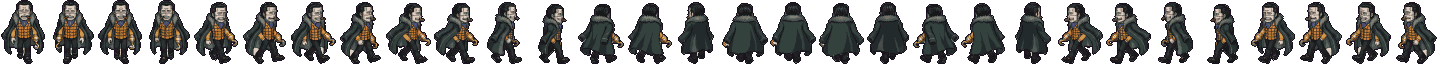
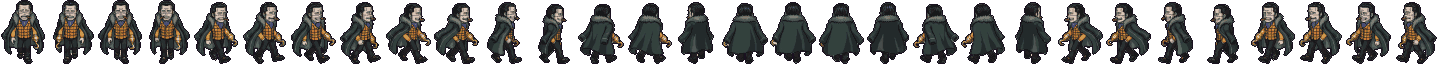
Kuro y Wapol en 8 direcciones; sin puntos blancos (bolsas de fondo encerradas y motas sueltas)

Changed region(s): [[0.9062, 0.75, 0.9375, 0.8125], [0.2188, 0.7812, 0.25, 0.8125], [0.1562, 0.75, 0.1875, 0.7812]]

diff --git a/js/data/sprites-built.js b/js/data/sprites-built.js
@@ -6,7 +6,6 @@ G.CUSTOM_SPRITES = Object.assign(G.CUSTOM_SPRITES || {}, {
   marine: {"file":"assets/chars/marine.png","fw":62,"fh":48,"scale":1,"anims":{"idle":[1],"walk":[7],"attack":[22,23]},"fps":{"idle":1,"walk":8,"attack":6},"body":[17,2,28,46],"dirs":{"down":{"idle":[1],"walk":[0,1,2,1]},"down-right":{"idle":[5],"walk":[3,4,5,6]},"right":{"idle":[7],"walk":[7]},"up-right":{"idle":[9],"walk":[8,9,10,9]},"up":{"idle":[12],"walk":[11,12,13,12]},"up-left":{"idle":[15],"walk":[14,15,16,15]},"left":{"idle":[17],"walk":[17]},"down-left":{"idle":[20],"walk":[18,19,20,21]}}},
   sanji: {"file":"assets/chars/sanji.png","fw":30,"fh":45,"scale":1,"anims":{"idle":[2],"walk":[7,8,9,8]},"fps":{"idle":1,"walk":8},"body":[6,1,20,44],"dirs":{"down":{"idle":[2],"walk":[0,1,2,3]},"down-right":{"idle":[5],"walk":[4,5,6,5]},"right":{"idle":[8],"walk":[7,8,9,8]},"up-right":{"idle":[11],"walk":[10,11,12,11]},"up":{"idle":[14],"walk":[13,14,15,14]},"up-left":{"idle":[17],"walk":[16,17,18,17]},"left":{"idle":[20],"walk":[19,20,21,20]},"down-left":{"idle":[23],"walk":[22,23,24,23]}}},
   imu: {"file":"assets/chars/imu.png","fw":54,"fh":62,"scale":1,"anims":{"idle":[0,1,2],"walk":[3],"attack":[4],"hurt":[5]},"fps":{"idle":3,"walk":1,"attack":5,"hurt":1},"body":[1,0,49,62]},
-  morgan: {"file":"assets/chars/morgan.png","fw":50,"fh":62,"scale":1,"anims":{"idle":[3],"walk":[10,11,12,13],"attack":[33,34]},"fps":{"idle":1,"walk":8,"attack":5},"body":[6,0,42,62],"dirs":{"down":{"idle":[3],"walk":[0,1,2,3,4,5]},"down-right":{"idle":[8],"walk":[6,7,8,9]},"right":{"idle":[12],"walk":[10,11,12,13]},"up-right":{"idle":[15],"walk":[14,15,16,15]},"up":{"idle":[19],"walk":[17,18,19,20,21]},"up-left":{"idle":[23],"walk":[22,23,24,23]},"left":{"idle":[27],"walk":[25,26,27,28]},"down-left":{"idle":[31],"walk":[29,30,31,32]}}},
   buggy: {"file":"assets/chars/buggy.png","fw":58,"fh":61,"scale":1,"anims":{"idle":[2],"walk":[8,9],"attack":[26]},"fps":{"idle":1,"walk":7,"attack":5},"body":[7,1,44,60],"dirs":{"down":{"idle":[2],"walk":[0,1,2,3]},"down-right":{"idle":[6],"walk":[4,5,6,7]},"right":{"idle":[9],"walk":[8,9]},"up-right":{"idle":[11],"walk":[10,11,12,11]},"up":{"idle":[15],"walk":[13,14,15,16]},"up-left":{"idle":[18],"walk":[17,18,19,18]},"left":{"idle":[21],"walk":[20,21]},"down-left":{"idle":[24],"walk":[22,23,24,25]}}},
   krieg: {"file":"assets/chars/krieg.png","fw":48,"fh":64,"scale":1,"anims":{"idle":[2],"walk":[8,9,10,9]},"fps":{"idle":1,"walk":7},"body":[5,1,40,63],"dirs":{"down":{"idle":[2],"walk":[0,1,2,3]},"down-right":{"idle":[6],"walk":[4,5,6,7]},"right":{"idle":[9],"walk":[8,9,10,9]},"up-right":{"idle":[12],"walk":[11,12]},"up":{"idle":[15],"walk":[13,14,15,16]},"up-left":{"idle":[18],"walk":[17,18]},"left":{"idle":[20],"walk":[19,20,21,20]},"down-left":{"idle":[24],"walk":[22,23,24,25]}}},
   arlong: {"file":"assets/chars/arlong.png","fw":50,"fh":65,"scale":1,"anims":{"idle":[2],"walk":[7,8,9,10],"attack":[28]},"fps":{"idle":1,"walk":7,"attack":5},"body":[3,1,40,64],"dirs":{"down":{"idle":[2],"walk":[0,1,2,3]},"down-right":{"idle":[5],"walk":[4,5,6,5]},"right":{"idle":[9],"walk":[7,8,9,10]},"up-right":{"idle":[12],"walk":[11,12,13,12]},"up":{"idle":[16],"walk":[14,15,16,17]},"up-left":{"idle":[19],"walk":[18,19,20,19]},"left":{"idle":[23],"walk":[21,22,23,24]},"down-left":{"idle":[26],"walk":[25,26,27,26]}}},
@@ -14,5 +13,8 @@ G.CUSTOM_SPRITES = Object.assign(G.CUSTOM_SPRITES || {}, {
   crocodile: {"file":"assets/chars/crocodile.png","fw":48,"fh":64,"scale":1,"anims":{"idle":[2],"walk":[8,9,10,11]},"fps":{"idle":1,"walk":7},"body":[2,0,44,64],"dirs":{"down":{"idle":[2],"walk":[0,1,2,3]},"down-right":{"idle":[6],"walk":[4,5,6,7]},"right":{"idle":[10],"walk":[8,9,10,11]},"up-right":{"idle":[13],"walk":[12,13,14,13]},"up":{"idle":[17],"walk":[15,16,17,18]},"up-left":{"idle":[20],"walk":[19,20,21,20]},"left":{"idle":[24],"walk":[22,23,24,25]},"down-left":{"idle":[28],"walk":[26,27,28,29]}}},
   enel: {"file":"assets/chars/enel.png","fw":46,"fh":66,"scale":1,"anims":{"idle":[1],"walk":[4]},"fps":{"idle":1,"walk":7},"body":[5,1,38,65],"dirs":{"down":{"idle":[1],"walk":[0,1]},"down-right":{"idle":[3],"walk":[2,3]},"right":{"idle":[4],"walk":[4]},"up-right":{"idle":[5],"walk":[5]},"up":{"idle":[8],"walk":[6,7,8,9]},"up-left":{"idle":[10],"walk":[10]},"left":{"idle":[11],"walk":[11]},"down-left":{"idle":[13],"walk":[12,13]}}},
   lucci: {"file":"assets/chars/lucci.png","fw":32,"fh":64,"scale":1,"anims":{"idle":[1],"walk":[4,5]},"fps":{"idle":1,"walk":7},"body":[3,0,28,64],"dirs":{"down":{"idle":[1],"walk":[0,1]},"down-right":{"idle":[3],"walk":[2,3]},"right":{"idle":[5],"walk":[4,5]},"up-right":{"idle":[7],"walk":[6,7]},"up":{"idle":[10],"walk":[8,9,10,11]},"up-left":{"idle":[13],"walk":[12,13]},"left":{"idle":[15],"walk":[14,15]},"down-left":{"idle":[17],"walk":[16,17]}}},
-  moria: {"file":"assets/chars/moria.png","fw":56,"fh":78,"scale":1,"anims":{"idle":[2],"walk":[6,7,8,7]},"fps":{"idle":1,"walk":7},"body":[3,4,51,74],"dirs":{"down":{"idle":[2],"walk":[0,1,2,3]},"down-right":{"idle":[5],"walk":[4,5]},"right":{"idle":[7],"walk":[6,7,8,7]},"up-right":{"idle":[10],"walk":[9,10]},"up":{"idle":[12],"walk":[11,12]},"up-left":{"idle":[14],"walk":[13,14]},"left":{"idle":[16],"walk":[15,16,17,16]},"down-left":{"idle":[19],"walk":[18,19]}}}
+  moria: {"file":"assets/chars/moria.png","fw":56,"fh":78,"scale":1,"anims":{"idle":[2],"walk":[6,7,8,7]},"fps":{"idle":1,"walk":7},"body":[3,4,51,74],"dirs":{"down":{"idle":[2],"walk":[0,1,2,3]},"down-right":{"idle":[5],"walk":[4,5]},"right":{"idle":[7],"walk":[6,7,8,7]},"up-right":{"idle":[10],"walk":[9,10]},"up":{"idle":[12],"walk":[11,12]},"up-left":{"idle":[14],"walk":[13,14]},"left":{"idle":[16],"walk":[15,16,17,16]},"down-left":{"idle":[19],"walk":[18,19]}}},
+  kuro: {"file":"assets/chars/kuro.png","fw":56,"fh":64,"scale":1,"anims":{"idle":[1],"walk":[4,5,6,5]},"fps":{"idle":1,"walk":7},"body":[7,1,43,63],"dirs":{"down":{"idle":[1],"walk":[0,1]},"down-right":{"idle":[3],"walk":[2,3]},"right":{"idle":[5],"walk":[4,5,6,5]},"up-right":{"idle":[8],"walk":[7,8,9,8]},"up":{"idle":[11],"walk":[10,11,12,11]},"up-left":{"idle":[14],"walk":[13,14,15,14]},"left":{"idle":[17],"walk":[16,17,18,17]},"down-left":{"idle":[20],"walk":[19,20]}}},
+  wapol: {"file":"assets/chars/wapol.png","fw":58,"fh":64,"scale":1,"anims":{"idle":[1],"walk":[6,7,8,9]},"fps":{"idle":1,"walk":7},"body":[3,1,52,63],"dirs":{"down":{"idle":[1],"walk":[0,1]},"down-right":{"idle":[4],"walk":[2,3,4,5]},"right":{"idle":[8],"walk":[6,7,8,9]},"up-right":{"idle":[11],"walk":[10,11,12,11]},"up":{"idle":[14],"walk":[13,14,15,14]},"up-left":{"idle":[17],"walk":[16,17,18,17]},"left":{"idle":[21],"walk":[19,20,21,22]},"down-left":{"idle":[25],"walk":[23,24,25,26]}}},
+  morgan: {"file":"assets/chars/morgan.png","fw":50,"fh":62,"scale":1,"anims":{"idle":[3],"walk":[10,11,12,13],"attack":[33,34]},"fps":{"idle":1,"walk":8,"attack":5},"body":[6,0,42,62],"dirs":{"down":{"idle":[3],"walk":[0,1,2,3,4,5]},"down-right":{"idle":[8],"walk":[6,7,8,9]},"right":{"idle":[12],"walk":[10,11,12,13]},"up-right":{"idle":[15],"walk":[14,15,16,15]},"up":{"idle":[19],"walk":[17,18,19,20,21]},"up-left":{"idle":[23],"walk":[22,23,24,23]},"left":{"idle":[27],"walk":[25,26,27,28]},"down-left":{"idle":[31],"walk":[29,30,31,32]}}}
 });

diff --git a/tools/sprites.config.js b/tools/sprites.config.js
@@ -115,7 +115,7 @@ module.exports = {
     // Buggy: andar en 8 direcciones (Buggy8D.png, convertida del .jfif). Las direcciones que faltan, en espejo.
     buggy: {
       sheet: REF + 'buggy/Buggy8D.png',
-      bgFlat: { color: '#ffffff', thr: 30, r: 2, fringe: 1 },
+      bgFlat: { color: '#ffffff', thr: 30, r: 2, fringe: 1, pockets: 'auto' },
       height: 60, colors: 24,
       fps: { idle: 1, walk: 7, attack: 5 },
       dirs8: {
@@ -152,7 +152,7 @@ module.exports = {
     // Arlong: andar en 8 direcciones (Arlong8D.png, convertida del .jfif). Las direcciones que faltan, en espejo.
     arlong: {
       sheet: REF + 'arlong/Arlong8D.png',
-      bgFlat: { color: '#ffffff', thr: 30, r: 2, fringe: 1 },
+      bgFlat: { color: '#ffffff', thr: 30, r: 2, fringe: 1, pockets: 'auto' },
       height: 64, colors: 24,
       fps: { idle: 1, walk: 7, attack: 5 },
       dirs8: {
@@ -171,7 +171,7 @@ module.exports = {
     // Mr. 3: andar en 8 direcciones (Mr38D.png, convertida del .jfif). Las direcciones que faltan, en espejo.
     mr3: {
       sheet: REF + 'mr3/Mr38D.png',
-      bgFlat: { color: '#ffffff', thr: 30, r: 2, fringe: 1 },
+      bgFlat: { color: '#ffffff', thr: 30, r: 2, fringe: 1, pockets: 'auto' },
       height: 62, colors: 24,
       fps: { idle: 1, walk: 7 },
       dirs8: {
@@ -189,7 +189,7 @@ module.exports = {
     // Crocodile: andar en 8 direcciones (Crocodile8D.png, convertida del .jfif). Las direcciones que faltan, en espejo.
     crocodile: {
       sheet: REF + 'crocodile/Crocodile8D.png',
-      bgFlat: { color: '#ffffff', thr: 30, r: 2, fringe: 1 },
+      bgFlat: { color: '#ffffff', thr: 30, r: 2, fringe: 1, pockets: 'auto' },
       height: 64, colors: 24,
       fps: { idle: 1, walk: 7 },
       dirs8: {
@@ -207,7 +207,7 @@ module.exports = {
     // Enel: andar en 8 direcciones (Enel8D.png, convertida del .jfif). Las direcciones que faltan, en espejo.
     enel: {
       sheet: REF + 'enel/Enel8D.png',
-      bgFlat: { color: '#ffffff', thr: 30, r: 2, fringe: 1 },
+      bgFlat: { color: '#ffffff', thr: 30, r: 2, fringe: 1, pockets: 'auto' },
       height: 64, colors: 24,
       fps: { idle: 1, walk: 7 },
       dirs8: {
@@ -243,7 +243,7 @@ module.exports = {
     // Gecko Moria: andar en 8 direcciones (Moria8D.png, convertida del .jfif). Las direcciones que faltan, en espejo.
     moria: {
       sheet: REF + 'moria/Moria8D.png',
-      bgFlat: { color: '#ffffff', thr: 30, r: 2, fringe: 1 },
+      bgFlat: { color: '#ffffff', thr: 30, r: 2, fringe: 1, pockets: 'auto' },
       height: 78, colors: 24,
       fps: { idle: 1, walk: 7 },
       dirs8: {
@@ -255,6 +255,42 @@ module.exports = {
         'up-left': [[1503, 5, 292, 430], [1545, 452, 227, 433]],
         'left': { mirror: 'right' },
         'down-left': [[309, 0, 285, 440], [321, 451, 261, 434]]
+      }
+    },
+
+    // Kuro: andar en 8 direcciones (Kuro8D.png, convertida del .jfif; paneles y etiquetas tapados con el color del fondo). Las direcciones que faltan, en espejo.
+    kuro: {
+      sheet: REF + 'kuro/Kuro8D.png',
+      bgFlat: { color: '#26292f', thr: 9, r: 3, fringe: 1 },
+      height: 62, colors: 24,
+      fps: { idle: 1, walk: 7 },
+      dirs8: {
+        'down': [[59, 92, 349, 437], [511, 89, 296, 444]],
+        'down-right': [[1405, 121, 287, 405], [1406, 2003, 327, 358]],
+        'right': [[73, 706, 313, 445], [504, 718, 273, 430], [494, 1916, 351, 439]],
+        'up-right': [[975, 716, 320, 433], [1389, 712, 317, 437], [1397, 1310, 321, 442]],
+        'up': [[95, 1302, 271, 450], [521, 1302, 272, 454], [990, 1304, 274, 448]],
+        'up-left': { mirror: 'up-right' },
+        'left': { mirror: 'right' },
+        'down-left': [[982, 134, 318, 398], [945, 1956, 352, 404]]
+      }
+    },
+
+    // Wapol: andar en 8 direcciones (Wapol8D.png, convertida del .jfif; sin diagonales de espaldas: usan las de espaldas). Las direcciones que faltan, en espejo.
+    wapol: {
+      sheet: REF + 'wapol/Wapol8D.png',
+      bgFlat: { color: '#ffffff', thr: 30, r: 2, fringe: 1 },
+      height: 64, colors: 24,
+      fps: { idle: 1, walk: 7 },
+      dirs8: {
+        'down': [[11, 25, 215, 271], [11, 625, 218, 267]],
+        'down-right': { mirror: 'down-left' },
+        'right': [[759, 25, 169, 270], [996, 26, 177, 269], [1232, 25, 168, 271], [1460, 26, 185, 266]],
+        'up-right': [[1931, 24, 212, 270], [2171, 25, 215, 273], [2169, 621, 219, 265]],
+        'up': [[1931, 24, 212, 270], [2171, 25, 215, 273], [2169, 621, 219, 265]],
+        'up-left': [[1931, 24, 212, 270], [2171, 25, 215, 273], [2169, 621, 219, 265]],
+        'left': [[516, 323, 185, 261], [747, 324, 198, 269], [1003, 322, 168, 270], [1241, 322, 166, 270]],
+        'down-left': [[253, 26, 217, 270], [492, 26, 204, 259], [22, 325, 212, 258], [275, 325, 198, 259]]
       }
     },
 

diff --git a/tools/pixelize.js b/tools/pixelize.js
@@ -55,15 +55,34 @@
     const bg = new Uint8Array(N), stack = [];
     for (let x = 0; x < w; x++) { stack.push(x + r * w, (h - 1 - r) * w + x); }
     for (let y = 0; y < h; y++) { stack.push(y * w + r, y * w + w - 1 - r); }
-    if (pockets) for (let p = 0; p < N; p++) if (thick[p]) stack.push(p);
-    while (stack.length) {
-      const p = stack.pop();
-      if (p < 0 || p >= N || bg[p] || !thick[p]) continue;
-      bg[p] = 1;
-      const x = p % w;
-      stack.push(p + w, p - w);
-      if (x > 0) stack.push(p - 1);
-      if (x < w - 1) stack.push(p + 1);
+    if (pockets === true) for (let p = 0; p < N; p++) if (thick[p]) stack.push(p);
+    const fill = (st, mark) => {
+      const list = [];
+      while (st.length) {
+        const p = st.pop();
+        if (p < 0 || p >= N || mark[p] || !thick[p]) continue;
+        mark[p] = 1; list.push(p);
+        const x = p % w;
+        st.push(p + w, p - w);
+        if (x > 0) st.push(p - 1);
+        if (x < w - 1) st.push(p + 1);
+      }
+      return list;
+    };
+    fill(stack, bg);
+    // pockets 'auto' (fondos claros): una bolsa encerrada es fondo si es de color liso, igual
+    // que el fondo. Ojo con los personajes con ropa blanca lisa (el marine): sin pockets.
+    if (pockets === 'auto' && (R + Gc + B) / 3 > 128) {
+      const seen = Uint8Array.from(bg);
+      for (let s = 0; s < N; s++) {
+        if (seen[s] || !thick[s]) continue;
+        const comp = fill([s], seen);
+        // Fondo encerrado: color liso, casi idéntico al del fondo (el JPG apenas lo toca).
+        // (Si el personaje lleva ropa blanca lisa, como el marine, no uses 'auto'.)
+        let pure = 0;
+        for (const p of comp) if (Math.max(Math.abs(data[p * 4] - R), Math.abs(data[p * 4 + 1] - Gc), Math.abs(data[p * 4 + 2] - B)) <= 6) pure++;
+        if (pure / comp.length >= 0.9) for (const p of comp) bg[p] = 1;
+      }
     }
     // El fondo ocupa también el margen de la erosión (r) y `fringe` más, sólo sobre oscuro.
     let cur = bg;
@@ -145,6 +164,25 @@
    * Deja sólo la figura principal: el grupo de píxeles (8 vecinos, alfa >= 128)
    * más grande y su borde suavizado. Quita humo, chispas o restos sueltos.
    */
+  /** Quita las motas sueltas: trozos de menos de minPx píxeles separados de la figura (restos del fondo del JPG). */
+  function dropSpecks(img, minPx = 4) {
+    const { w, h, data } = img, seen = new Uint8Array(w * h), out = { w, h, data: Uint8Array.from(data) };
+    for (let s = 0; s < w * h; s++) {
+      if (seen[s] || data[s * 4 + 3] < 128) continue;
+      const comp = [s], stack = [s]; seen[s] = 1;
+      while (stack.length) {
+        const p = stack.pop(), x = p % w, y = (p / w) | 0;
+        for (let dy = -1; dy <= 1; dy++) for (let dx = -1; dx <= 1; dx++) {
+          const nx = x + dx, ny = y + dy, q = ny * w + nx;
+          if (nx < 0 || ny < 0 || nx >= w || ny >= h || seen[q] || data[q * 4 + 3] < 128) continue;
+          seen[q] = 1; stack.push(q); comp.push(q);
+        }
+      }
+      if (comp.length < minPx) for (const p of comp) out.data[p * 4 + 3] = 0;
+    }
+    return out;
+  }
+
   function largestOnly(img) {
     const { w, h, data } = img;
     const label = new Int32Array(w * h).fill(-1), stack = [];
@@ -335,5 +373,5 @@
     return out;
   }
 
-  return { blank, rgbOf, removeBg, removeFlatBg, crop, trim, components, largestOnly, downscale, colorsOf, medianCut, nearest, quantize, outline, anchor, blit, flipX };
+  return { blank, rgbOf, removeBg, removeFlatBg, crop, trim, components, largestOnly, dropSpecks, downscale, colorsOf, medianCut, nearest, quantize, outline, anchor, blit, flipX };
 });

diff --git a/tools/build-sprites.js b/tools/build-sprites.js
@@ -38,7 +38,7 @@ function sheetOf(cfg) {
   const key = cfg.sheet + '#sinfondo';
   if (!cache.has(key)) {
     const o = cfg.bgFlat;
-    cache.set(key, P.removeFlatBg(load(cfg.sheet), o.color || '#000000', o.thr || 14, o.r || 3, o.fringe === undefined ? 1 : o.fringe, !!o.pockets));
+    cache.set(key, P.removeFlatBg(load(cfg.sheet), o.color || '#000000', o.thr || 14, o.r || 3, o.fringe === undefined ? 1 : o.fringe, o.pockets === 'auto' ? 'auto' : !!o.pockets));
   }
   return cache.get(key);
 }
@@ -133,7 +133,8 @@ function build(id, cfg, K) {
   // (Con 8 direcciones y poses de otra hoja, cada hoja lleva su escala: sideHeight.)
   const k = cfg.height ? order[0].src.h / (cfg.height - 2) : K / (cfg.size || 1);
   const kSide = cfg.sideHeight && order.find(o => o.side) ? order.find(o => o.side).src.h / (cfg.sideHeight - 2) : k;
-  const small = order.map(o => P.downscale(o.src, o.side ? kSide : k, 0.5, cfg.accent || null));
+  // Sin motas sueltas (restos del fondo que quedan como puntos al reducir).
+  const small = order.map(o => P.dropSpecks(P.downscale(o.src, o.side ? kSide : k, 0.5, cfg.accent || null)));
   const pal = P.medianCut(P.colorsOf(small), cfg.colors || 16);
   // Detalles reservados (accent): los colores intensos, aunque sean pocos píxeles,
   // tienen sitio fijo en la paleta (si no, la mediana los descarta: ojos de Imu).

diff --git a/README.md b/README.md
@@ -118,8 +118,9 @@ Cada jefe tiene sus propios ataques, sin repetir ninguno (`js/entities/bosses.js
 | | Thriller Bark | Moria | Brick Bat: murciélagos que te persiguen · levanta zombis |
 | (sin isla) | | Imu | Látigo negro que gira · anillos de espinas con un hueco |
 
-Andan en 8 direcciones Luffy, Sanji, el marine y todos los jefes menos Kuro y Wapol, que llevan
-un dibujo provisional de 16×20 (`js/data/sprites.js`) hasta tener sus hojas.
+Andan en 8 direcciones Luffy, Sanji, el marine y todos los jefes (Imu, sin isla, usa su atlas de
+Treasure Cruise). Al generar las hojas se quitan también las bolsas de fondo encerradas en el dibujo
+(`pockets: 'auto'`, menos en quien lleva ropa blanca lisa, como el marine) y las motas sueltas.
 
 Para elegir los fotogramas de una hoja nueva:
 

diff --git a/tasks/todo.md b/tasks/todo.md
@@ -55,7 +55,8 @@
 - [x] Bioma nevado para Drum
 - [x] Se mantiene el minimapa en todas las islas
 - [x] Hojas de 8 direcciones: Buggy, Krieg, Arlong, Mr. 3, Crocodile, Enel, Lucci y Moria
-- [ ] Hojas de Kuro y Wapol (siguen con el dibujo provisional)
+- [x] Hojas de Kuro y Wapol
+- [x] Sin puntos blancos: bolsas de fondo encerradas (`pockets: 'auto'`) y motas sueltas (`dropSpecks`)
 - [ ] Dificultad entre islas (ahora sigue subiendo con el tiempo total de la partida)
 - [ ] Equilibrar el daño de cada ataque jugando
 
